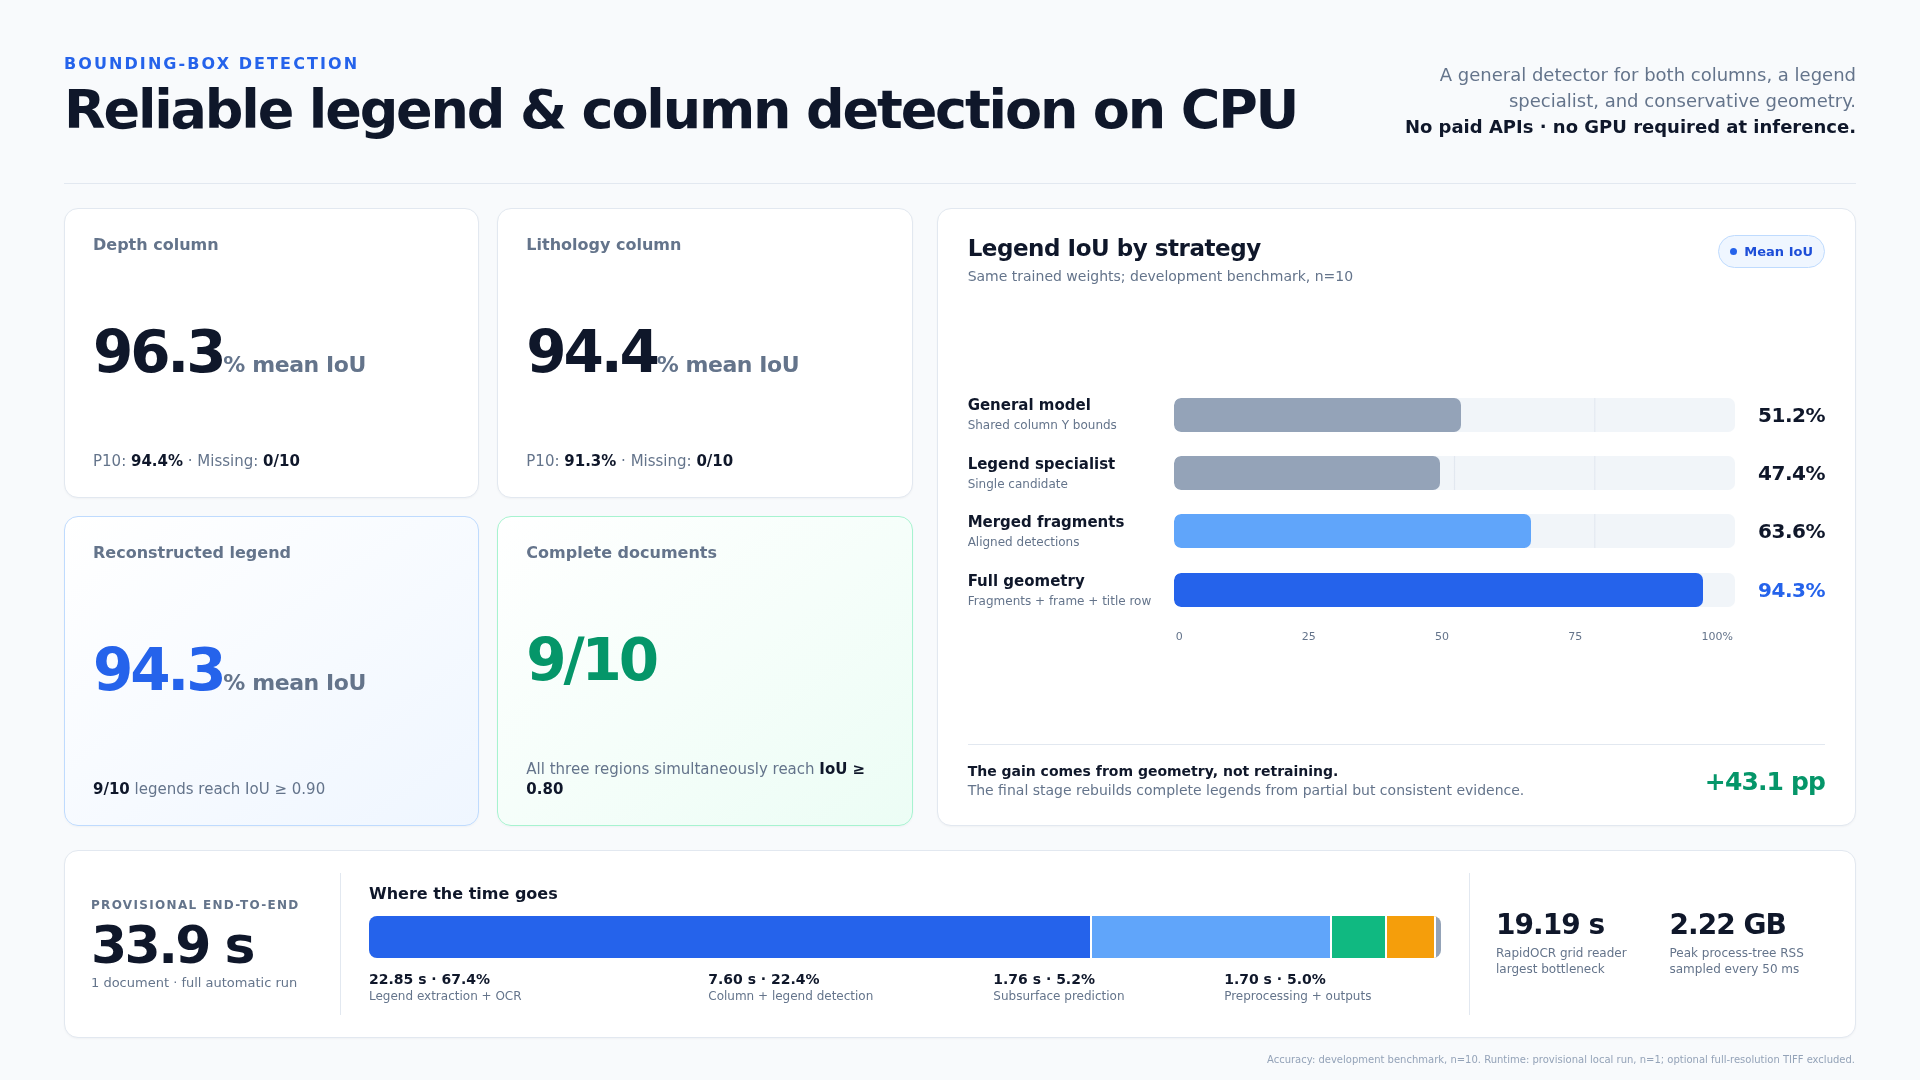
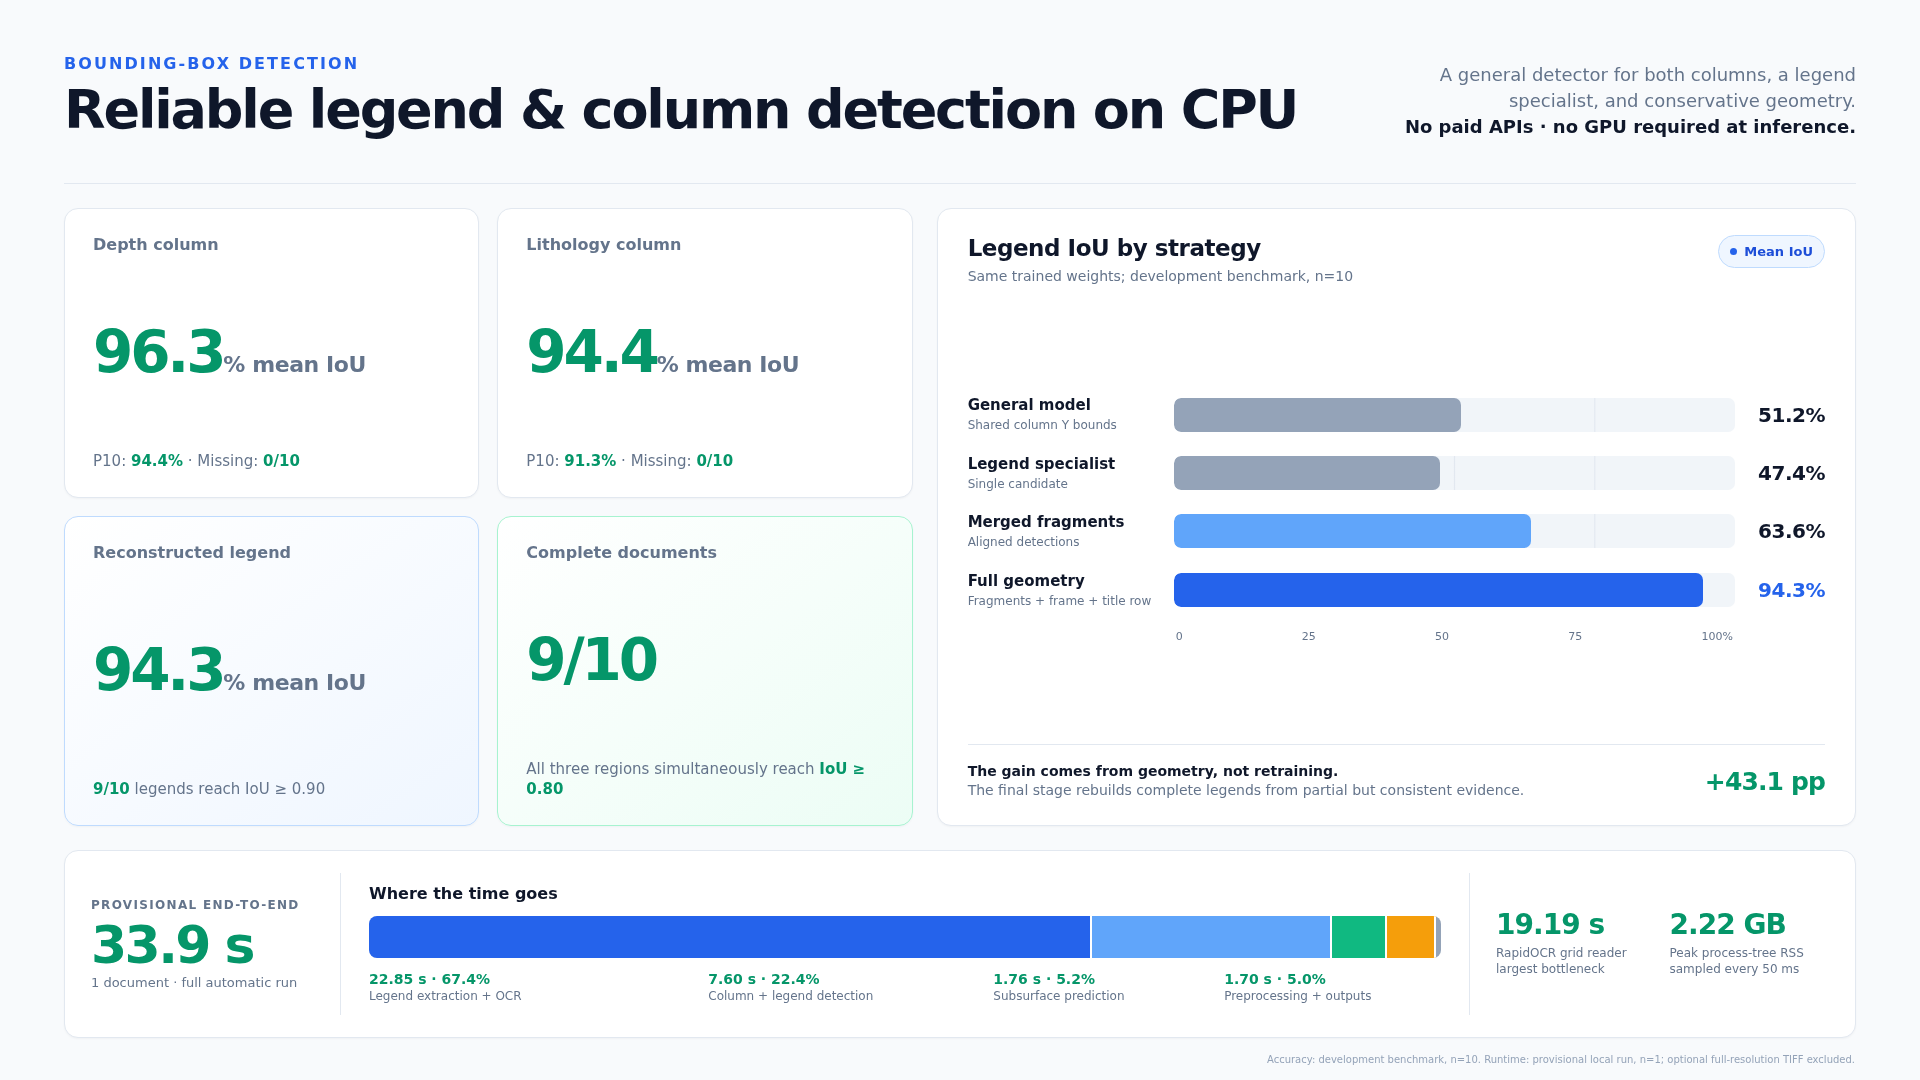
add benchmark

diff --git a/presentation/model-performance-slide.html b/presentation/model-performance-slide.html
@@ -114,6 +114,7 @@
 
     .metric-value {
       margin: 7px 0 6px;
+      color: var(--success);
       font-size: 58px;
       line-height: .96;
       letter-spacing: -.055em;
@@ -128,13 +129,13 @@
     }
 
     .metric-detail { color: var(--muted); font-size: 15px; line-height: 1.35; }
-    .metric-detail strong { color: var(--foreground); font-weight: 650; }
+    .metric-detail strong { color: var(--success); font-weight: 700; }
 
     .metric.highlight {
       border-color: #bfdbfe;
       background: linear-gradient(145deg, var(--card), var(--primary-soft));
     }
-    .metric.highlight .metric-value { color: var(--primary); }
+    .metric.highlight .metric-value { color: var(--success); }
 
     .metric.success {
       border-color: #a7f3d0;
@@ -256,6 +257,7 @@
 
     .timing-total {
       margin: 7px 0 4px;
+      color: var(--success);
       font-size: 52px;
       line-height: 1;
       font-weight: 750;
@@ -294,7 +296,7 @@
     }
 
     .time-label { font-size: 12px; line-height: 1.25; color: var(--muted); }
-    .time-label strong { display: block; color: var(--foreground); font-size: 14px; }
+    .time-label strong { display: block; color: var(--success); font-size: 14px; }
 
     .timing-details {
       align-self: stretch;
@@ -307,6 +309,7 @@
     }
 
     .detail-number {
+      color: var(--success);
       font-size: 28px;
       line-height: 1;
       font-weight: 740;

diff --git a/bbox-final/benchmark.py b/bbox-final/benchmark.py
@@ -370,6 +370,15 @@ def _select_models(choice: str, custom: Path | None, device: str) -> tuple[Path,
         return pt, device, "pt"
     if choice == "int8":
         return int8, "cpu" if device == "auto" else device, "int8"
+    normalized_device = device.strip().lower()
+    if normalized_device not in ("", "auto"):
+        if normalized_device.startswith(("cpu", "intel")):
+            return int8, device, "int8"
+        if not pt_ready():
+            raise FileNotFoundError(
+                f"A GPU device was requested, but PT models are incomplete in {pt}"
+            )
+        return pt, device, "pt"
     try:
         import torch
 

diff --git a/bbox-final/tests/test_benchmark.py b/bbox-final/tests/test_benchmark.py
@@ -119,3 +119,13 @@ def test_rejects_unsafe_zip_member(tmp_path):
         assert "Unsafe ZIP member" in str(error)
     else:
         raise AssertionError("Unsafe archive member was accepted")
+
+
+def test_auto_models_with_explicit_cpu_selects_packaged_int8(tmp_path):
+    (tmp_path / "models").mkdir()
+    (tmp_path / "models-pt").mkdir()
+    with patch("benchmark.ROOT", tmp_path):
+        models, device, model_set = benchmark._select_models("auto", None, "cpu")
+    assert models == tmp_path / "models"
+    assert device == "cpu"
+    assert model_set == "int8"
